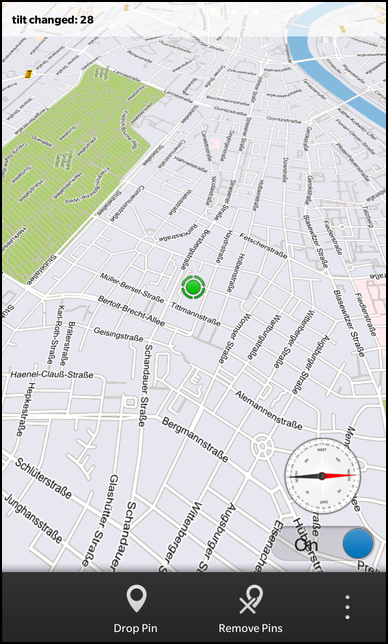
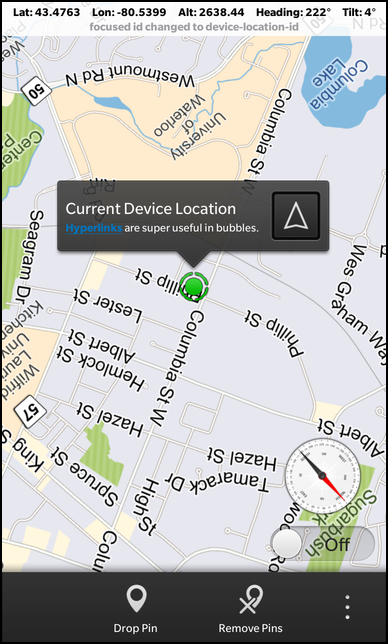
additional ui changes to custommapview

diff --git a/custommapview/assets/main.qml b/custommapview/assets/main.qml
@@ -78,53 +78,110 @@ Page {
             preferredWidth: 768
             preferredHeight: 1280
             onAltitudeChanged: {
-                status.setText(qsTr("altitude changed: %1").arg(newAlt));
+                alt.setText(qsTr("Alt: %1").arg(newAlt));
             }
             onHeadingChanged: {
-                status.setText(qsTr("heading changed: %1").arg(newHeading));
+                heading.setText(qsTr("Heading: %1\u00B0").arg(newHeading));
             }
             onLatitudeChanged: {
-                status.setText(qsTr("latitude changed: %1").arg(newLat));
+                lat.setText(qsTr("Lat: %1").arg(newLat));
             }
             onLongitudeChanged: {
-                status.setText(qsTr("longitude changed: %1").arg(newLon));
+                lon.setText(qsTr("Lon: %1").arg(newLon));
             }
             onTiltChanged: {
-                status.setText(qsTr("tilt changed: %1").arg(newTilt));
+                tilt.setText(qsTr("Tilt: %1\u00B0").arg(newTilt));
             }
             onMapLongPressed: {
                 status.setText(qsTr("map long pressed"));
             }
-            onCreationCompleted: {
-                setCaptionGoButtonVisible(false);
-            }
+
             onFollowedIdChanged: {
                 status.setText(qsTr("followed id changed to %1").arg(idOfFollowed));
             }
+            onFocusedIdChanged: {
+                status.setText(qsTr("focused id changed to %1").arg(idWithFocus));
+            }
             onCaptionButtonClicked: {
-                status.setText(qsTr("%1 button clicked!").arg(focusedId));
+                status.setText(qsTr("button clicked %1").arg(focusedId));
             }
             onCaptionLabelTapped: {
-                status.setText(qsTr("%1 label clicked!").arg(focusedId));
+                status.setText(qsTr("label clicked %1").arg(focusedId));
+            }
+            onLocationTapped: {
+                status.setText(qsTr("location tapped %1").arg(id));
+            }
+            onLocationLongPressed: {
+                status.setText(qsTr("location long pressed %1").arg(id));
             }
         }
         //! [1]
         Container {
             horizontalAlignment: HorizontalAlignment.Fill
             verticalAlignment: VerticalAlignment.Top
-            topPadding: 20
-            leftPadding: 20
-            bottomPadding: 20
-            background: Color.create("#aaffffff");
+            topPadding: 5
+            leftPadding: 5
+            bottomPadding: 5
+            background: Color.create("#ddffffff")
 
             //! [2]
-            Label {
-                id: status
-                multiline: true
-                textStyle {
-                    base: SystemDefaults.TextStyles.SmallText
-                    color: Color.Black
-                    fontWeight: FontWeight.Bold
+            Container {
+                layout: StackLayout {
+                    orientation: LayoutOrientation.LeftToRight
+                }
+                horizontalAlignment: HorizontalAlignment.Center
+                //! [2]
+                Label {
+
+                    id: lat
+                    textStyle {
+                        base: SystemDefaults.TextStyles.SmallText
+                        color: Color.Black
+                        fontWeight: FontWeight.Bold
+                    }
+                }
+                Label {
+                    id: lon
+                    textStyle {
+                        base: SystemDefaults.TextStyles.SmallText
+                        color: Color.Black
+                        fontWeight: FontWeight.Bold
+                    }
+                }
+                Label {
+                    id: alt
+                    textStyle {
+                        base: SystemDefaults.TextStyles.SmallText
+                        color: Color.Black
+                        fontWeight: FontWeight.Bold
+                    }
+                }
+                Label {
+                    id: heading
+                    textStyle {
+                        base: SystemDefaults.TextStyles.SmallText
+                        color: Color.Black
+                        fontWeight: FontWeight.Bold
+                    }
+                }
+                Label {
+                    id: tilt
+                    textStyle {
+                        base: SystemDefaults.TextStyles.SmallText
+                        color: Color.Black
+                        fontWeight: FontWeight.Bold
+                    }
+                }
+            }
+            Container {
+                horizontalAlignment: HorizontalAlignment.Center
+                Label {
+                    id: status
+                    textStyle {
+                        base: SystemDefaults.TextStyles.SmallText
+                        color: Color.Gray
+                        fontWeight: FontWeight.Bold
+                    }
                 }
             }
             //! [2]
@@ -137,9 +194,10 @@ Page {
             topPadding: 20
             horizontalAlignment: HorizontalAlignment.Right
             verticalAlignment: VerticalAlignment.Bottom
+            overlapTouchPolicy: OverlapTouchPolicy.Allow
+            
             ImageView {
                 id: compassImage
-                overlapTouchPolicy: OverlapTouchPolicy.Allow
                 imageSource: "asset:///images/compass.png"
                 horizontalAlignment: HorizontalAlignment.Center
                 attachedObjects: [

diff --git a/custommapview/src/MapViewDemo.cpp b/custommapview/src/MapViewDemo.cpp
@@ -26,16 +26,15 @@
 #include <bb/platform/geo/Marker>
 #include <bb/UIToolkitSupport>
 
-#include <QPoint>
-
 using namespace bb;
 using namespace bb::cascades;
 using namespace bb::cascades::maps;
 using namespace bb::platform::geo;
 
 //! [0]
-MapViewDemo::MapViewDemo(bb::cascades::Application *app) :
-		QObject(app) {
+MapViewDemo::MapViewDemo(bb::cascades::Application *app)
+	: QObject(app)
+{
 	// create scene document from main.qml asset
 	// set parent to created document to ensure it exists for the whole application lifetime
 	QmlDocument *qml = QmlDocument::create("asset:///main.qml").parent(this);
@@ -44,26 +43,24 @@ MapViewDemo::MapViewDemo(bb::cascades::Application *app) :
 	// create root object for the UI
 	AbstractPane *root = qml->createRootObject<AbstractPane>();
 
-	QObject* mapViewAsQObject = root->findChild<QObject*>(
-			QString("mapViewObj"));
+	QObject* mapViewAsQObject = root->findChild<QObject*>(QString("mapViewObj"));
 	if (mapViewAsQObject) {
 		mapView = qobject_cast<bb::cascades::maps::MapView*>(mapViewAsQObject);
 		mapView->setCaptionGoButtonVisible(true);
 		if (mapView) {
 			// creating a data provider just for the device location object. that way, when the clear function is call, this object is not removed.
-			DataProvider* deviceLocDataProv = new DataProvider(
-					"device-location-data-provider");
+			DataProvider* deviceLocDataProv = new DataProvider("device-location-data-provider");
 			mapView->mapData()->addProvider(deviceLocDataProv);
 
 			// create a geolocation just for the device's location
 			deviceLocation = new GeoLocation("device-location-id");
 			deviceLocation->setName("Current Device Location");
+			deviceLocation->setDescription("<html><a href=\"http://www.blackberry.com\">Hyperlinks</a> are super useful in bubbles.</html>");
 
 			// for that location, replace the standard default pin with the provided bulls eye asset
-			Marker bullseye = Marker(
-					UIToolkitSupport::absolutePathFromUrl(
-							QUrl("asset:///images/me.png")), QSize(60, 60),
-							QPoint(29, 29), QPoint(29, 1));
+			Marker bullseye = Marker(UIToolkitSupport::absolutePathFromUrl(
+								QUrl("asset:///images/me.png")), QSize(60, 60),
+								QPoint(29, 29), QPoint(29, 1));
 			deviceLocation->setMarker(bullseye);
 
 			deviceLocDataProv->add(deviceLocation);
@@ -81,14 +78,13 @@ void MapViewDemo::addPinAtCurrentMapCenter() {
 		newDrop->setLatitude(mapView->latitude());
 		newDrop->setLongitude(mapView->longitude());
 		QString desc = QString("Coordinates: %1, %2").arg(mapView->latitude(),
-				0, 'f', 3).arg(mapView->longitude(), 0, 'f', 3);
+								0, 'f', 3).arg(mapView->longitude(), 0, 'f', 3);
 		newDrop->setName("Dropped Pin");
 		newDrop->setDescription(desc);
 
 		// use the marker in the assets, as opposed to the default marker
 		Marker flag;
-		flag.setIconUri(
-				UIToolkitSupport::absolutePathFromUrl(
+		flag.setIconUri(UIToolkitSupport::absolutePathFromUrl(
 						QUrl("asset:///images/on_map_pin.png")));
 		flag.setIconSize(QSize(60, 60));
 		flag.setLocationCoordinate(QPoint(20, 59));

diff --git a/custommapview/src/MapViewDemo.hpp b/custommapview/src/MapViewDemo.hpp
@@ -16,7 +16,6 @@
 #define MAPVIEWDEMO_HPP
 
 #include <QObject>
-#include <QVariant>
 
 namespace bb {
 namespace cascades {
@@ -31,8 +30,6 @@ class GeoLocation;
 }
 }
 }
-
-class QPoint;
 
 /*!
  * @brief Application pane object
